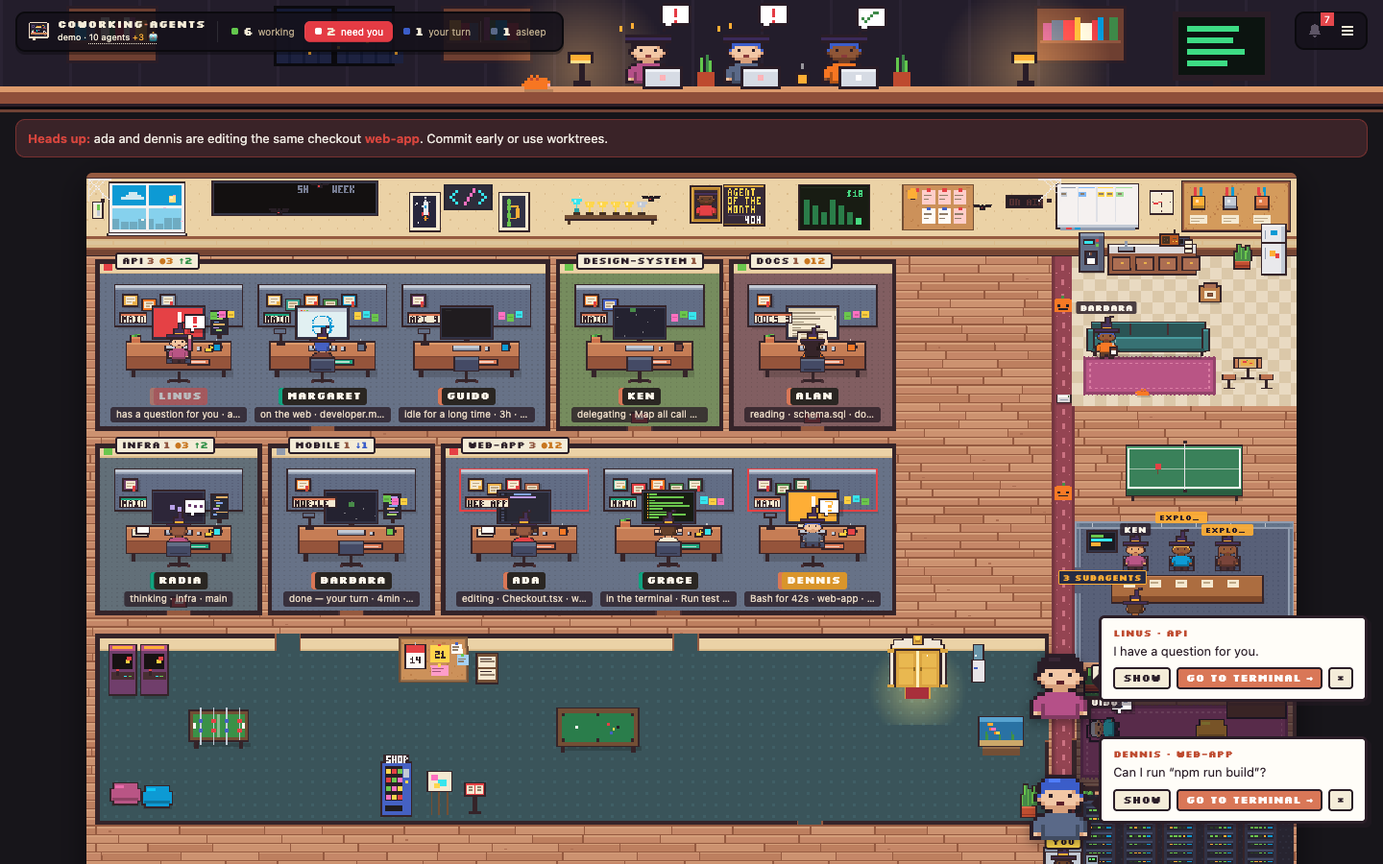
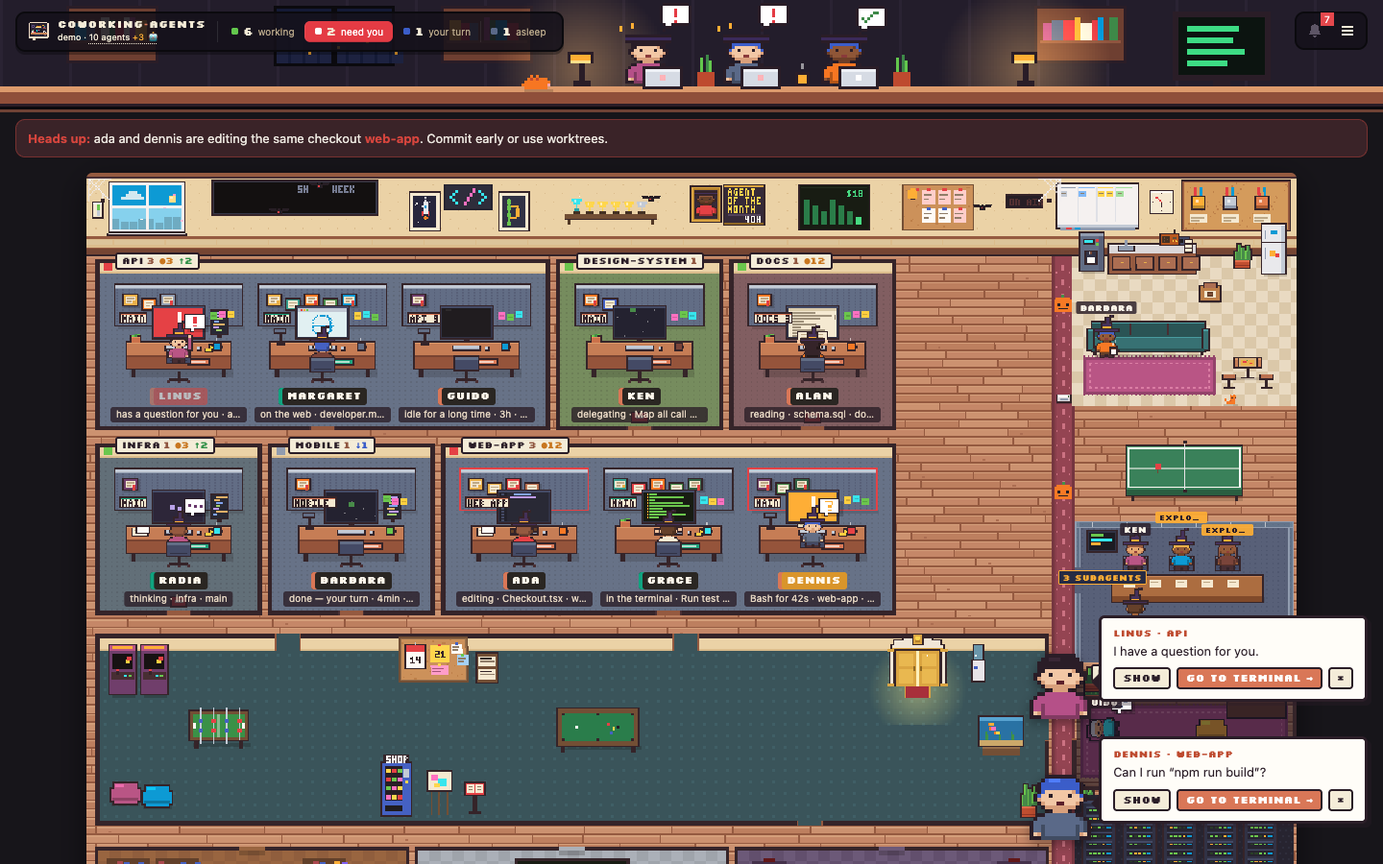
Library, lab and waiting room on the office floor, under the game room; you see who is there when you walk in
The elevator versions are gone: one office you walk through. The agents
stay at their desks; a room shows who is reading or browsing, running
commands, or waiting on you, with a count on the door.

diff --git a/public/js/places.js b/public/js/places.js
@@ -1,15 +1,11 @@
 'use strict';
-// ---------------- the library, the lab and the meeting room; walking inside every room ----------------
-// The agents stay at their desks in the office. A room shows who is doing that thing right now (measured from
-// their state): reading or browsing in the library, running commands in the lab, working with helpers in the
-// meeting room. You walk in like in the office (arrows/WASD or a click), Enter next to someone opens them,
-// and the elevator door in the corner takes you back.
+// ---------------- the library, the lab and the waiting room on the office floor; walking inside the elevator rooms ----------------
+// The agents stay at their desks. Walk into one of the three rooms under the game room and it shows who is doing that
+// right now (measured from their state): reading or browsing (library), running commands (lab), waiting on you
+// (waiting room). Enter next to someone opens them. The rooftop, trophy and server rooms can be walked in too.
 
 // --- walking in a room: its floor, where you arrive, the door back ---
 const ROOM_WALK = {
-  library: { x: 20, y: 150, w: 600, h: 228, door: { x: 26, y: 186 } },
-  lab: { x: 20, y: 140, w: 600, h: 238, door: { x: 26, y: 176 } },
-  meeting: { x: 20, y: 150, w: 600, h: 228, door: { x: 26, y: 186 } },
   terrace: { x: 20, y: 186, w: 600, h: 192, door: { x: 26, y: 222 } },
   servers: { x: 20, y: 200, w: 600, h: 178, door: { x: 26, y: 236 } },
   trophy: { x: 20, y: 290, w: 600, h: 88, door: { x: 26, y: 326 } },
@@ -78,100 +74,50 @@ const roomSign = (x, y, txt, bg, fg) => { txt = plain(txt); const w = txt.length
 const roomEmpty = (Wt, Ht, txt) => { txt = plain(txt); const w = txt.length * 4 + 16; r(Wt / 2 - w / 2, Ht - 46, w, 14, '#00000066'); pixText(Wt / 2 - w / 2 + 8, Ht - 42, txt, '#f4ecd8'); };
 const doingOf = p => (p.doing ? `${p.doing.tool || ''} ${p.doing.what || ''}`.trim() : '');
 
-// ---- the library: tall shelves, reading tables with green lamps; who is reading files or browsing the web ----
-function drawLibrary(t) {
-  const Wt = TROPHY_W, Ht = TROPHY_H, hits = [], L = T.places;
-  r(0, 0, Wt, 132, '#3b2a22'); for (let x = 0; x < Wt; x += 32) r(x, 0, 1, 132, '#2e2019');
-  const COLORS = ['#a8434f', '#3b5dc9', '#63c74d', '#feae34', '#7a5cff', '#2ce8f5', '#e8e2d6', '#b55088'];
-  for (let i = 0; i < 6; i++) {
-    const sx = 14 + i * 104, sw = 96; r(sx - 3, 8, sw + 6, 122, '#5a3a28'); r(sx, 10, sw, 118, '#2b1d16');
-    for (let s = 0; s < 4; s++) {
-      const by = 14 + s * 29; r(sx, by + 24, sw, 4, '#6b4a33');
-      for (let x = sx + 2, n = 0; x < sx + sw - 4; n++) { const h = hash(`bk${i}:${s}:${n}`), bw = 3 + h % 3, bh = 16 + (h >>> 3) % 7; r(x, by + 24 - bh, bw, bh, COLORS[(h >>> 6) % COLORS.length]); r(x, by + 24 - bh + 3, bw, 1, '#00000033'); x += bw + ((h >>> 9) % 4 === 0 ? 2 : 0); }
-    }
-  }
-  r(0, 132, Wt, Ht - 132, '#8a5a3c');
-  for (let y = 132; y < Ht; y += 8) for (let x = ((y / 8) % 2) * 12; x < Wt; x += 24) { r(x, y, 12, 8, '#93613f'); r(x, y + 7, 24, 1, '#6e4630'); }
-  r(150, 180, 340, 170, '#6e2433'); r(156, 186, 328, 158, '#8e3242'); for (let x = 166; x < 474; x += 12) r(x, 192, 6, 2, '#c9667a'), r(x, 336, 6, 2, '#c9667a');
-  roomSign(Wt / 2, 136, L.library.toUpperCase(), '#1b1622', '#ffd84d');
-  // a globe and an armchair in the corners
-  r(586, 300, 14, 14, '#3b8bff'); r(590, 302, 6, 4, '#63c74d'); r(592, 314, 2, 10, '#c9a34a'); r(586, 324, 14, 3, '#6b4a33');
-  r(560, 180, 34, 30, '#7a2e3a'); r(560, 176, 34, 8, '#a8434f'); r(556, 184, 6, 24, '#a8434f'); r(592, 184, 6, 24, '#a8434f');
-  // reading tables, two seats each, filled by who is reading (files) or browsing (web) right now
-  const tables = [[120, 210], [300, 210], [480, 210], [120, 300], [300, 300], [480, 300]];
-  const readers = (data ? data.people : []).filter(p => !p.leaving && ['read', 'web'].includes(p.state)).slice(0, 12);
-  readers.forEach((p, i) => {
-    const [tx, ty] = tables[i >> 1], sx = tx + (i % 2 ? 46 : 8), sy = ty - 22;
-    Art.drawFront(sx, sy, look(p.id), t, { legs: Art.LEGS_SIT, legsKey: 'sit' });
-    hits.push({ x: sx - 2, y: sy - 4, w: 20, h: 34, id: p.id, title: `${p.name} · ${T.states[p.state] || p.state}${doingOf(p) ? '\n' + doingOf(p) : ''}` });
-  });
-  for (const [tx, ty] of tables) {
-    r(tx - 2, ty - 2, 80, 20, PAL.ink); r(tx, ty, 76, 16, '#6b4a33'); r(tx, ty, 76, 3, '#8a6a4a'); r(tx + 4, ty + 16, 3, 12, '#4a3324'); r(tx + 69, ty + 16, 3, 12, '#4a3324');
-    r(tx + 34, ty - 12, 2, 12, '#c9a34a'); r(tx + 28, ty - 16, 14, 5, '#2f8f4e'); r(tx + 30, ty - 11, 10, 2, '#ffe9a0'); // the green banker's lamp
-    r(tx + 8, ty + 4, 12, 7, '#f4ecd8'); r(tx + 54, ty + 4, 12, 7, '#f4ecd8');
-  }
-  readers.forEach((p, i) => { const [tx, ty] = tables[i >> 1]; roomName(tx + (i % 2 ? 46 : 8), ty + 30, p.name); });
-  if (!readers.length) roomEmpty(Wt, Ht, L.noReaders);
-  viewHits = hits; drawRoomWalker(t);
-}
 
-// ---- the lab: benches of screens with scrolling output; who is running commands, tests or builds ----
-function drawLab(t) {
-  const Wt = TROPHY_W, Ht = TROPHY_H, hits = [], L = T.places;
-  r(0, 0, Wt, 124, '#d8dde6'); r(0, 118, Wt, 6, '#aab3c2'); for (let x = 0; x < Wt; x += 40) r(x, 0, 1, 118, '#c7cdd8');
-  r(0, 124, Wt, Ht - 124, '#9aa3b0'); for (let y = 124; y < Ht; y += 16) for (let x = ((y / 16) % 2) * 16; x < Wt; x += 32) r(x, y, 16, 16, '#a7b0bd');
-  // the CI wall: a big screen with pipeline stages
-  const runners = (data ? data.people : []).filter(p => !p.leaving && ['terminal', 'mcp'].includes(p.state)).slice(0, 12);
-  r(170, 14, 300, 84, PAL.ink); r(174, 18, 292, 76, '#0c1410');
-  pixText(184, 24, L.pipeline, '#62ff7a');
-  ['BUILD', 'TEST', 'LINT', 'DEPLOY'].forEach((s, i) => { const on = runners.length && ((t / 600 + i) | 0) % 4 !== 3; r(184 + i * 70, 44, 60, 16, on ? '#1f7a48' : '#1b2a22'); pixText(190 + i * 70, 49, s, on ? '#d8ffe0' : '#3a5a48'); });
-  for (let i = 0; i < 4; i++) r(184, 70 + i * 5, 40 + (hash('ci' + i + ((t / 900) | 0)) % 240), 2, '#2c6b44');
-  roomSign(Wt / 2, 128, L.lab.toUpperCase(), '#1b1622', '#62ff7a');
-  // shelves of equipment on the side walls
-  for (const sx of [24, 506]) { r(sx, 20, 110, 90, '#c7cdd8'); for (let s = 0; s < 3; s++) { r(sx, 44 + s * 28, 110, 3, '#7a8494'); for (let k = 0; k < 5; k++) r(sx + 6 + k * 21, 30 + s * 28, 14, 14, ['#3b5dc9', '#e43b44', '#63c74d', '#feae34', '#7a5cff'][(k + s) % 5]); } }
-  // benches: four stations each; an agent at a station sees its own output scroll on the screen
-  const benches = [190, 270, 350];
-  runners.forEach((p, i) => {
-    const b = benches[(i / 4) | 0], sx = 100 + (i % 4) * 130, sy = b - 26;
-    Art.drawFront(sx + 20, sy, look(p.id), t, { legs: Art.LEGS_SIT, legsKey: 'sit' });
-    hits.push({ x: sx + 18, y: sy - 4, w: 20, h: 34, id: p.id, title: `${p.name} · ${T.states[p.state] || p.state}${doingOf(p) ? '\n' + doingOf(p) : ''}` });
-  });
-  for (const b of benches) {
-    r(84, b - 2, 516, 18, PAL.ink); r(86, b, 512, 14, '#e8ecf2'); r(86, b, 512, 3, '#ffffff'); r(94, b + 14, 4, 14, '#7a8494'); r(586, b + 14, 4, 14, '#7a8494');
-    for (let k = 0; k < 4; k++) {
-      const sx = 100 + k * 130, i = benches.indexOf(b) * 4 + k, busy = !!runners[i];
-      r(sx + 48, b - 22, 40, 22, PAL.ink); r(sx + 50, b - 20, 36, 18, busy ? '#0c1410' : '#1b1d2e');
-      if (busy) for (let l = 0; l < 4; l++) r(sx + 52, b - 18 + l * 4, 6 + (hash('o' + i + l + ((t / 300) | 0)) % 28), 2, l === 3 ? '#62ff7a' : '#2c6b44');
-      r(sx + 64, b, 4, 2, '#7a8494');
+// ---- the three rooms on the office floor ----
+const PLACE_STATES = { library: ['read', 'web'], lab: ['terminal', 'mcp'], waiting: ['needs_you', 'waiting'] };
+let placeHits = [];
+const placeOf = name => places.find(P => P.name === name);
+function drawPlaceRooms(t, movers) {
+  placeHits = [];
+  for (const P of places) {
+    const { x, y, w, h } = P, d = P.doors[0], L = T.places;
+    // floor, walls with the door gap on top, a sign
+    const floorC = P.name === 'library' ? ['#8a5a3c', '#93613f'] : P.name === 'lab' ? ['#9aa3b0', '#a7b0bd'] : ['#5a4a6e', '#64547a'];
+    r(x, y, w, h, floorC[0]); for (let yy = y; yy < y + h; yy += 8) for (let xx = x + ((yy - y) / 8 % 2) * 8; xx < x + w; xx += 16) r(xx, yy, 8, 8, floorC[1]);
+    r(x - 2, y - 2, w + 4, 3, PAL.ink); r(x - 2, y, 2, h + 2, PAL.ink); r(x + w, y, 2, h + 2, PAL.ink); r(x - 2, y + h, w + 4, 2, PAL.ink);
+    r(d.x - 9, y - 2, 18, 3, floorC[1]); r(d.x - 9, y + 1, 18, 3, '#00000033'); // the open door
+    if (P.name === 'library') { // shelves along the back wall, two reading tables with green lamps
+      for (let i = 0; i < Math.floor((w - 12) / 34); i++) { const sx = x + 6 + i * 34; if (Math.abs(sx + 15 - d.x) < 22) continue; r(sx, y + 6, 30, 26, '#5a3a28'); for (let sh = 0; sh < 2; sh++) for (let k = 0; k < 6; k++) { const hh = hash(`pl${P.x}${i}${sh}${k}`); r(sx + 2 + k * 5, y + 8 + sh * 12 + (hh % 3), 4, 10 - (hh % 3), ['#a8434f', '#3b5dc9', '#63c74d', '#feae34', '#7a5cff', '#2ce8f5'][hh % 6]); } }
+      for (const tx of [x + w * .18, x + w * .58]) { r(tx, y + 70, w * .26, 12, '#6b4a33'); r(tx, y + 70, w * .26, 2, '#8a6a4a'); r(tx + w * .13 - 1, y + 62, 2, 8, '#c9a34a'); r(tx + w * .13 - 5, y + 59, 10, 4, '#2f8f4e'); }
+    } else if (P.name === 'lab') { // a CI screen on the back wall, two benches of monitors
+      r(x + w / 2 - 40, y + 6, 80, 24, PAL.ink); r(x + w / 2 - 38, y + 8, 76, 20, '#0c1410'); pixText(x + w / 2 - 34, y + 11, 'CI', '#62ff7a');
+      ['B', 'T', 'L'].forEach((c, i) => { const on = ((t / 600 + i) | 0) % 3 !== 2; r(x + w / 2 - 20 + i * 18, y + 18, 14, 7, on ? '#1f7a48' : '#1b2a22'); });
+      for (const by of [y + 58, y + 92]) { r(x + 10, by, w - 20, 8, '#e8ecf2'); r(x + 10, by, w - 20, 2, '#ffffff'); for (let k = 0; k < 3; k++) { const mx = x + 22 + k * (w - 44) / 3; r(mx, by - 10, 16, 10, PAL.ink); r(mx + 1, by - 9, 14, 8, '#0c1410'); r(mx + 3, by - 7, 4 + hash('lm' + k + by + ((t / 400) | 0)) % 9, 1, '#62ff7a'); } }
+    } else { // the waiting room: two phone booths with a red light, a bench
+      for (const bx of [x + 10, x + w - 34]) { r(bx, y + 8, 24, 44, '#3a2a4a'); r(bx + 2, y + 12, 20, 38, '#8fc7ff55'); r(bx + 8, y + 6, 8, 3, ((t / 400) | 0) % 2 ? '#ff4d57' : '#5a0f16'); }
+      r(x + w * .25, y + 88, w * .5, 6, '#6b4a33'); r(x + w * .25, y + 94, 3, 8, '#4a3324'); r(x + w * .75 - 3, y + 94, 3, 8, '#4a3324');
     }
+    const label = plain(L[P.name]), lw = label.length * 4 + 8; r(x + 6, y + h - 12, lw, 9, '#00000088'); pixText(x + 10, y + h - 10, label, '#f4ecd8');
+    // inside, you see who is doing this right now (the agents themselves stay at their desks)
+    const here = playerOn && me.ready && me.x + 8 > x && me.x + 8 < x + w && me.y + 12 > y && me.y + 12 < y + h;
+    const who = (data ? data.people : []).filter(p => !p.leaving && PLACE_STATES[P.name].includes(p.state));
+    if (!here) { if (who.length) { const n = String(who.length); r(x + w - 18, y + h - 13, 14, 11, PAL.ink); r(x + w - 17, y + h - 12, 12, 9, P.name === 'waiting' ? '#e43b44' : '#1b1622'); pixText(x + w - 14 - (n.length - 1) * 2, y + h - 10, n, '#ffffff'); } continue; }
+    const cols = Math.max(1, Math.floor((w - 20) / 34)), seats = [];
+    for (let i = 0; i < who.length && seats.length < cols * 2; i++) seats.push({ x: x + 14 + (i % cols) * 34, y: y + (i < cols ? 44 : 78) - 4 });
+    who.slice(0, seats.length).forEach((p, i) => {
+      const st = seats[i], lk = look(p.id);
+      movers.push({ y: st.y, draw: () => { Art.drawFront(st.x, st.y, lk, t, { legs: Art.LEGS_SIT, legsKey: 'sit' }); const nm = plain(p.name).slice(0, 8), nw = nm.length * 4 + 4; r(st.x + 8 - nw / 2, st.y + 26, nw, 7, '#000000aa'); pixText(st.x + 10 - nw / 2, st.y + 27, nm, '#f4ecd8'); } });
+      placeHits.push({ x: st.x, y: st.y, id: p.id, name: p.name, need: P.name === 'waiting' });
+    });
+    if (!who.length) { const e = plain(L['no_' + P.name]), ew = e.length * 4 + 8; r(x + w / 2 - ew / 2, y + h / 2 - 5, ew, 10, '#00000088'); pixText(x + w / 2 - ew / 2 + 4, y + h / 2 - 3, e, '#f4ecd8'); }
   }
-  runners.forEach((p, i) => roomName(100 + (i % 4) * 130 + 20, benches[(i / 4) | 0] + 18, p.name));
-  if (!runners.length) roomEmpty(Wt, Ht, L.noRunners);
-  viewHits = hits; drawRoomWalker(t);
 }
-
-// ---- the meeting room: a long table; an agent and the helpers it called sit together ----
-function drawMeetingRoom(t) {
-  const Wt = TROPHY_W, Ht = TROPHY_H, hits = [], L = T.places;
-  r(0, 0, Wt, 130, '#2a3446'); for (let x = 0; x < Wt; x += 80) { r(x, 0, 3, 130, '#1b2230'); ctx.fillStyle = 'rgba(160,200,255,.08)'; ctx.fillRect(x + 6, 6, 70, 118); }
-  r(0, 130, Wt, Ht - 130, '#4a5468'); for (let y = 130; y < Ht; y += 6) r(0, y, Wt, 1, '#434c5e');
-  // the whiteboard and a screen
-  r(60, 16, 220, 96, PAL.ink); r(63, 19, 214, 90, '#f4f4f0');
-  pixText(74, 26, L.plan, '#3b5dc9'); for (let i = 0; i < 5; i++) { r(74, 40 + i * 12, 6, 6, i < 3 ? '#63c74d' : '#c0cbdc'); r(86, 42 + i * 12, 60 + (hash('wb' + i) % 110), 2, '#5a6270'); }
-  r(360, 20, 220, 90, PAL.ink); r(363, 23, 214, 84, '#0c1830'); pixText(374, 30, L.helpersNow, '#7fb3e6');
-  roomSign(Wt / 2, 134, L.meeting.toUpperCase(), '#1b1622', '#7fb3e6');
-  // who meets: every agent working with helpers, then its helpers next to it
-  const leads = (data ? data.people : []).filter(p => !p.leaving && (p.subagents || []).length);
-  const seats = []; for (let i = 0; i < 7; i++) seats.push({ x: 130 + i * 56, y: 192, back: false }); for (let i = 0; i < 7; i++) seats.push({ x: 130 + i * 56, y: 268, back: true });
-  const crowd = []; for (const p of leads) { crowd.push({ p, lead: true }); for (const a of p.subagents) crowd.push({ p, a }); }
-  crowd.slice(0, seats.length).forEach((c, i) => {
-    const s = seats[i], lk = look(c.a ? c.p.id + ':' + c.a.id : c.p.id);
-    if (s.back) Art.drawSeatedBack(s.x, s.y, lk, t, {}); else Art.drawFront(s.x, s.y, lk, t, { legs: Art.LEGS_SIT, legsKey: 'sit' });
-    hits.push({ x: s.x - 2, y: s.y - 4, w: 20, h: 32, id: c.p.id, who: c.a ? `${c.a.type} (${c.p.name})` : c.p.name, title: c.a ? `🤖 ${c.a.type}: ${c.a.description || ''}${c.a.doing ? '\n' + c.a.doing : ''}\n← ${c.p.name}` : `${c.p.name} · ${T.states[c.p.state] || c.p.state}` });
-  });
-  r(112, 214, 416, 50, PAL.ink); r(114, 216, 412, 46, '#6b4a33'); r(114, 216, 412, 4, '#8a6a4a'); for (let i = 0; i < 6; i++) r(140 + i * 66, 228, 14, 9, '#f4ecd8');
-  crowd.slice(0, seats.length).forEach((c, i) => { const s = seats[i]; roomName(s.x, s.back ? s.y + 30 : s.y - 12, c.a ? c.a.type : c.p.name); });
-  if (crowd.length) pixText(374, 46, L.meetCount(leads.length, crowd.length - leads.length), '#d8e6ff');
-  if (!crowd.length) roomEmpty(Wt, Ht, L.noMeeting);
-  viewHits = hits; drawRoomWalker(t);
-}
+// a click on someone you see in one of these rooms opens them
+overlay.addEventListener('click', e => {
+  if (trophyView || !placeHits.length) return;
+  const rc = overlay.getBoundingClientRect(), x = (e.clientX - rc.left) / S, y = (e.clientY - rc.top) / S;
+  const h = placeHits.find(h => x >= h.x && x <= h.x + 16 && y >= h.y - 2 && y <= h.y + 26); if (!h) return;
+  e.stopImmediatePropagation(); h.need && typeof openTalk === 'function' ? openTalk(h.id) : showPerson(h.id);
+}, true);

diff --git a/public/js/i18n.js b/public/js/i18n.js
@@ -124,7 +124,7 @@ const I18N = {
     surprise: { hint: 'Uma surpresa! Clique para pegar', cake: 'Bolo surpresa na copa!', pigeon: 'Um pombo na janela!', ticket: 'Um bilhete dourado no chão!' },
     scoreboard: { title: 'Placar da semana entre as IAs', hours: 'horas', actions: 'ações', tokens: 'tokens' },
     share: { bestDay: 'Melhor dia', topAi: 'Mais usada', cost: 'Custo estimado', ready: 'Seu cartão da semana está pronto', readyWhy: 'Horas, ações, melhor dia, a IA mais usada e o custo da semana, numa imagem para compartilhar (Jornal → Cartão da semana).', card: 'Cartão da semana', visit: 'Foto para visita', week: 'Minha semana no escritório', hours: 'horas de agentes trabalhando', actions: 'ações', trophies: 'níveis de conquista · lendas', saved: 'Cartão salvo', visitSaved: 'Foto para visita salva', visitNote: 'Sem nomes, branches nem o nome do escritório.' },
-    elevator: { title: 'Elevador', sub: 'Escolha o andar: terraço, escritório, troféus, servidores, biblioteca, laboratório ou reunião. Dentro das salas você anda com as setas.', terrace: '🌇 Terraço', trophy: '🏆 Sala de troféus', servers: '🖧 Sala de servidores', library: '📚 Biblioteca', lab: '🧪 Laboratório', meeting: '👥 Sala de reunião', office: '🏢 Escritório', floor: n => `🏢 Andar ${n}` },
+    elevator: { title: 'Elevador', sub: 'Escolha o andar: terraço, escritório, troféus ou servidores. Dentro das salas você anda com as setas.', terrace: '🌇 Terraço', trophy: '🏆 Sala de troféus', servers: '🖧 Sala de servidores', office: '🏢 Escritório', floor: n => `🏢 Andar ${n}` },
     tasks: { tab: n => n ? `Tarefas (${n})` : 'Tarefas', sub: 'Crie uma tarefa e um agente trabalha nela em segundo plano. Você responde, aprova e revisa por aqui, sem abrir o terminal. Só as tarefas criadas aqui podem ser controladas; as sessões abertas por fora seguem só monitoradas.',
       newT: 'Nova tarefa', title: 'Título (opcional)', desc: 'O que fazer', folder: 'Pasta', agent: 'Agente', auto: 'Automático', profile: 'Perfil', prio: 'Prioridade', prios: ['', 'Baixa', 'Normal', 'Alta'],
       budget: 'Orçamento (US$, 0 = sem limite)', test: 'Comando de teste (opcional)', wt: 'Worktree separada (isola as alterações)', perm: 'Permissões', perms: { acceptEdits: 'Pode editar arquivos', plan: 'Só planejar', default: 'Pedir para tudo' },
@@ -349,7 +349,7 @@ const I18N = {
     surprise: { hint: 'A surprise! Click to grab it', cake: 'Surprise cake in the kitchen!', pigeon: 'A pigeon at the window!', ticket: 'A golden ticket on the floor!' },
     scoreboard: { title: "This week's AI scoreboard", hours: 'hours', actions: 'actions', tokens: 'tokens' },
     share: { bestDay: 'Best day', topAi: 'Used most', cost: 'Estimated cost', ready: 'Your weekly card is ready', readyWhy: "Hours, actions, best day, the AI used most and the week's cost, in one image to share (Newspaper → Weekly card).", card: 'Weekly card', visit: 'Visitor photo', week: 'My week at the office', hours: 'hours of agents at work', actions: 'actions', trophies: 'achievement tiers · legends', saved: 'Card saved', visitSaved: 'Visitor photo saved', visitNote: 'No names, branches or office name.' },
-    elevator: { title: 'Elevator', sub: 'Pick a floor: rooftop, office, trophies, servers, library, lab or meeting room. Inside the rooms you walk with the arrows.', terrace: '🌇 Rooftop', trophy: '🏆 Trophy room', servers: '🖧 Server room', library: '📚 Library', lab: '🧪 Lab', meeting: '👥 Meeting room', office: '🏢 Office', floor: n => `🏢 Floor ${n}` },
+    elevator: { title: 'Elevator', sub: 'Pick a floor: rooftop, office, trophies or servers. Inside the rooms you walk with the arrows.', terrace: '🌇 Rooftop', trophy: '🏆 Trophy room', servers: '🖧 Server room', office: '🏢 Office', floor: n => `🏢 Floor ${n}` },
     tasks: { tab: n => n ? `Tasks (${n})` : 'Tasks', sub: 'Create a task and an agent works on it in the background. You answer, approve and review here, no terminal needed. Only tasks created here can be controlled; sessions opened elsewhere stay monitor-only.',
       newT: 'New task', title: 'Title (optional)', desc: 'What to do', folder: 'Folder', agent: 'Agent', auto: 'Automatic', profile: 'Profile', prio: 'Priority', prios: ['', 'Low', 'Normal', 'High'],
       budget: 'Budget (USD, 0 = no limit)', test: 'Test command (optional)', wt: 'Separate worktree (isolates the changes)', perm: 'Permissions', perms: { acceptEdits: 'May edit files', plan: 'Plan only', default: 'Ask for everything' },
@@ -633,8 +633,8 @@ Object.assign(I18N.en, { phoneOn: { how: 'See the agents and tasks and answer fr
 Object.assign(I18N.pt, { menuGroups: { see: 'Ver', do: 'Fazer', prefs: 'Ajustes', autostart: 'Abrir com o computador' } });
 Object.assign(I18N.en, { menuGroups: { see: 'See', do: 'Do', prefs: 'Settings', autostart: 'Open with the computer' } });
 // the library, the lab and the meeting room
-Object.assign(I18N.pt, { places: { library: 'Biblioteca', lab: 'Laboratório', meeting: 'Sala de reunião', back: 'Voltar ao escritório', noReaders: 'NINGUEM LENDO AGORA', noRunners: 'NENHUM COMANDO RODANDO', noMeeting: 'NENHUMA REUNIAO AGORA', pipeline: 'PIPELINE', plan: 'PLANO', helpersNow: 'AJUDANTES AGORA', meetCount: (a, h) => `${a} AGENTE${a === 1 ? '' : 'S'} · ${h} AJUDANTE${h === 1 ? '' : 'S'}` } });
-Object.assign(I18N.en, { places: { library: 'Library', lab: 'Lab', meeting: 'Meeting room', back: 'Back to the office', noReaders: 'NOBODY READING NOW', noRunners: 'NO COMMANDS RUNNING', noMeeting: 'NO MEETING NOW', pipeline: 'PIPELINE', plan: 'PLAN', helpersNow: 'HELPERS NOW', meetCount: (a, h) => `${a} AGENT${a === 1 ? '' : 'S'} · ${h} HELPER${h === 1 ? '' : 'S'}` } });
+Object.assign(I18N.pt, { places: { waiting: 'Sala de espera', no_library: 'Ninguém lendo agora', no_lab: 'Nenhum comando rodando', no_waiting: 'Ninguém esperando você', library: 'Biblioteca', lab: 'Laboratório', meeting: 'Sala de reunião', back: 'Voltar ao escritório', noReaders: 'NINGUEM LENDO AGORA', noRunners: 'NENHUM COMANDO RODANDO', noMeeting: 'NENHUMA REUNIAO AGORA', pipeline: 'PIPELINE', plan: 'PLANO', helpersNow: 'AJUDANTES AGORA', meetCount: (a, h) => `${a} AGENTE${a === 1 ? '' : 'S'} · ${h} AJUDANTE${h === 1 ? '' : 'S'}` } });
+Object.assign(I18N.en, { places: { waiting: 'Waiting room', no_library: 'Nobody reading now', no_lab: 'No commands running', no_waiting: 'Nobody waiting on you', library: 'Library', lab: 'Lab', meeting: 'Meeting room', back: 'Back to the office', noReaders: 'NOBODY READING NOW', noRunners: 'NO COMMANDS RUNNING', noMeeting: 'NO MEETING NOW', pipeline: 'PIPELINE', plan: 'PLAN', helpersNow: 'HELPERS NOW', meetCount: (a, h) => `${a} AGENT${a === 1 ? '' : 'S'} · ${h} HELPER${h === 1 ? '' : 'S'}` } });
 let T = I18N[lang];
 // sound is on by default; alerts follow the browser permission (asked on open). Only the buttons turn them off.
 let soundOn = store.get('sound', true);

diff --git a/public/js/floorplan.js b/public/js/floorplan.js
@@ -10,7 +10,7 @@ let ctx = mainCtx; // switched to the thumbnail canvas while drawing another flo
 Art.setCtx(ctx);
 const overlay = document.getElementById('overlay');
 let S = 3, W = 480, H = 300, CX = 320, RX = 330;
-let game = null, data = null, selected = null, layout = [], desks = [], rooms = [], floors = [], floor = 0, spots = null, hallBox = null, boardBox = null, wing = null, floorStates = [], building = false;
+let game = null, places = [], data = null, selected = null, layout = [], desks = [], rooms = [], floors = [], floor = 0, spots = null, hallBox = null, boardBox = null, wing = null, floorStates = [], building = false;
 
 function rawRoomKey(p) {
   if (p.repo && p.repo.name) return p.repo.name;
@@ -131,15 +131,19 @@ function buildFloor(i) {
   const game = { x: 8, y: gy, w: gw, h: GH, doorY: gy + GH / 2,
     doors: [{ side: 'right', x: 8 + gw, y: gy + GH / 2 }, { side: 'top', x: 8 + Math.round(gw * .2), y: gy }, { side: 'top', x: 8 + Math.round(gw * .62), y: gy }, { side: 'bottom', x: 8 + Math.round(gw * .75), y: gy + GH }] };
   y += GH + SHELF_GAP + 4;
+  // under the game room: the library, the lab and the waiting room, side by side, doors on their top wall to the hallway
+  const PH = 118, pw = Math.floor((CX - 20 - 16) / 3), py = y + 6;
+  const places = ['library', 'lab', 'waiting'].map((name, k) => { const x = 8 + k * (pw + 8); return { name, x, y: py, w: pw, h: PH, doors: [{ side: 'top', x: x + Math.round(pw / 2), y: py }] }; });
+  y += PH + SHELF_GAP + 10;
   const occupied = ds.filter(d => d.p);
   const lay = occupied.map(d => Object.assign({}, d));
   lay.forEach((c, k) => { occupied[k].cell = c; });
-  return { rooms: rs, desks: ds, layout: lay, bottom: y, H: 0, game };
+  return { rooms: rs, desks: ds, layout: lay, bottom: y, H: 0, game, places };
 }
 
 function useFloor(i) {
   const f = floorStates[i];
-  rooms = f.rooms; desks = f.desks; layout = f.layout; H = f.H; game = f.game;
+  rooms = f.rooms; desks = f.desks; layout = f.layout; H = f.H; game = f.game; places = f.places || [];
 }
 
 function fitScale() {

diff --git a/public/js/player.js b/public/js/player.js
@@ -11,6 +11,7 @@ const PLAYER_SPEED = 70;
 function solidRooms() {
   const out = rooms.map(R => ({ x: R.x, y: R.y, w: R.w, h: R.h, doors: [{ x: R.doorX + 9, y: R.y + R.h, side: 'bottom' }], gap: 9 }));
   if (game) out.push({ x: game.x, y: game.y, w: game.w, h: game.h, doors: game.doors, gap: 9 });
+  for (const P of places) out.push({ x: P.x, y: P.y, w: P.w, h: P.h, doors: P.doors, gap: 9 });
   if (napBox) out.push({ x: RX - 4, y: wing.nap, w: RW + 8, h: 80, doors: [{ x: RX - 4, y: wing.nap + 37, side: 'left' }], gap: 9 });
   return out;
 }
@@ -97,6 +98,7 @@ function nearThing() {
   }
   for (const g of gameHits) if (near(g.x + g.w / 2, g.y + g.h, 24)) return { label: g.title, run: () => { const m = /data-tab="(\w+)"/.exec(g.attr); if (m) openReport(m[1]); else if (/trophyroom/.test(g.attr)) setTrophyView(true); else if (/arcade/.test(g.attr)) openArcade(); } };
   if (typeof officeTips === 'function') { const o = officeTips(); for (const [b, tab, label] of [[boardBox, 'tasks', o.tasks], [costBox, 'usage', o.costs], [noticesBox, 'notices', o.notices], [historyBox, 'feed', o.history], [releaseBox, 'version', o.releases]]) if (b && near(b.x + b.w / 2, b.y + b.h + 14, 26)) return { label: label.split('\n')[0], run: () => openReport(tab) }; }
+  for (const h of (typeof placeHits !== 'undefined' ? placeHits : [])) if (near(h.x + 8, h.y + 12, 22)) return { label: T.walk.talk(h.name), run: () => (h.need ? openTalk(h.id) : showPerson(h.id)) };
   if (radioBox && near(radioBox.x + 7, radioBox.y + 20, 26)) return { label: radioOn ? T.radio.on : T.radio.off, run: () => setRadio(!radioOn) };
   if (catBox && near(cat.x + 6, cat.y + 6, 18)) return { label: T.walk.pet, run: petCat };
   if (elevatorBox && near(elevatorBox.x + 14, elevatorBox.y + 30, 22)) return { label: T.elevator.title, run: openElevator };

diff --git a/public/js/main.js b/public/js/main.js
@@ -27,7 +27,7 @@ function loop(t) {
     if (f !== lastFrame || (playerOn && (me.moving || me.path.length || keysDown.size || (trophyView && (vme.moving || vme.path.length))))) {
       const dt = lastT ? Math.min(.25, (t - lastT) / 1000) : 0;
       lastT = t; lastFrame = f;
-      if (trophyView) { roomUpdate(dt); ({ terrace: drawTerrace, servers: drawServers, library: drawLibrary, lab: drawLab, meeting: drawMeetingRoom }[viewName] || drawTrophyRoom)(t); } else if (building) { if (f % 3 === 0) drawThumbs(t, dt * 3); } else drawScene(t, dt);
+      if (trophyView) { roomUpdate(dt); ({ terrace: drawTerrace, servers: drawServers }[viewName] || drawTrophyRoom)(t); } else if (building) { if (f % 3 === 0) drawThumbs(t, dt * 3); } else drawScene(t, dt);
     }
   }
 }

diff --git a/public/js/views.js b/public/js/views.js
@@ -132,9 +132,7 @@ function openElevator() {
     ${btn('data-go="trophy"', E.trophy, viewName === 'trophy')}
     ${floors.map((f, i) => btn(`data-go-floor="${i}"`, floors.length > 1 ? E.floor(i + 1) : E.office, !trophyView && floor === i)).reverse().join('')}
     ${btn('data-go="servers"', E.servers, viewName === 'servers')}
-    ${btn('data-go="library"', E.library, viewName === 'library')}
-    ${btn('data-go="lab"', E.lab, viewName === 'lab')}
-    ${btn('data-go="meeting"', E.meeting, viewName === 'meeting')}
+
   </div></div></div>`;
   liftEl.hidden = false; achBump('lifts');
 }

diff --git a/public/js/scene.js b/public/js/scene.js
@@ -448,6 +448,7 @@ function drawScene(t, dt) {
   movers.push({ y: cat.y, draw: () => drawMascot(cat.x, cat.y, cat.mode, t, cat.flip) });
   movers.push(...extraWalkers(t));
   drawPets(t, movers);
+  if (typeof drawPlaceRooms === 'function') drawPlaceRooms(t, movers); // the library, the lab and the waiting room (who you see depends on where you stand)
   drawPlayer(t, movers);
   movers.push({ y: robot.y, draw: () => drawRobot(t) });
   movers.sort((a, b) => a.y - b.y).forEach(m => m.draw());

diff --git a/README.md b/README.md
@@ -276,7 +276,7 @@ Click the elevator (or press Enter next to it) to ride between floors, up to the
 ![The server room](docs/servers.png)
 
 
-**More rooms:** the **library** (who is reading files or browsing), the **lab** (who is running commands, tests or builds) and the **meeting room** (an agent with the helpers it called). The agents stay at their desks; each room shows who is doing that right now. You walk inside every room like in the office (arrows or WASD, Shift to run, or a click); Enter next to someone opens them, and the elevator door in the corner takes you back.
+**More rooms on the floor:** under the game room are the **library**, the **lab** and the **waiting room**. The agents stay at their desks; walk into a room and you see who is reading or browsing, running commands or tests, or waiting on you right now (a number on the door says how many). Enter next to someone opens them. You can also walk inside the rooftop, the trophy room and the server room.
 ## Achievements, coins and the shop
 
 - **86 achievements**, each with five tiers from bronze to legend, measured from your history (hours, actions, streaks, nights, Friday evenings, weeks and months with work, tokens, cache, models, cost), the live office (parallel sessions, subagents, giant contexts, commits and pushes, repos and branches, quick answers, clean desks) and what you do in the office (walking, talking, the radio, the shop, customising). A few are secret.

diff --git a/CHANGELOG.md b/CHANGELOG.md
@@ -2,8 +2,8 @@
 
 ## Unreleased
 - Fix: the test suite no longer stops a running office started at login (it turned the login item off through the real launchd label)
-- Three new rooms in the elevator: the library (who is reading files or browsing the web, at reading tables), the lab (who is running commands, tests or builds, at benches with their output on screen) and the meeting room (an agent and the helpers it called, around the table). The agents stay at their desks; a room shows who is doing that right now
-- Walk inside every room, like in the office (arrows/WASD, Shift to run, or a click): Enter next to someone opens them, and the elevator door in the corner takes you back. The rooftop, the trophy room and the server room too
+- Three new rooms on the office floor, under the game room: the library, the lab and the waiting room. The agents stay at their desks; walk into a room (arrows/WASD or a click) and you see who is reading or browsing, running commands, or waiting on you right now. A number on the door says how many; Enter next to someone opens them (the waiting room opens the question)
+- Walk inside the rooftop, the trophy room and the server room too; the elevator door in the corner takes you back
 
 ## 0.9.1 — 2026-10-14
 - ☰ → Settings → *Open with the computer*: the start-at-login switch right in the menu, with its green dot (it also stays in Personalise)
